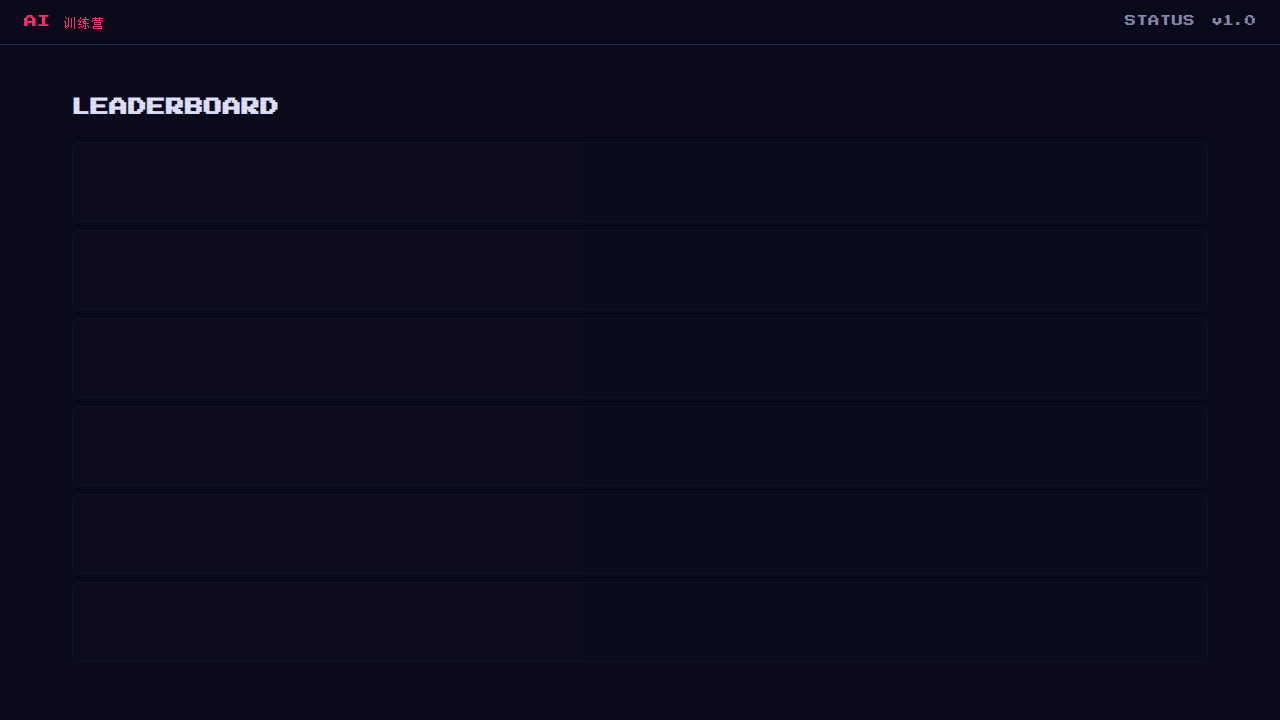
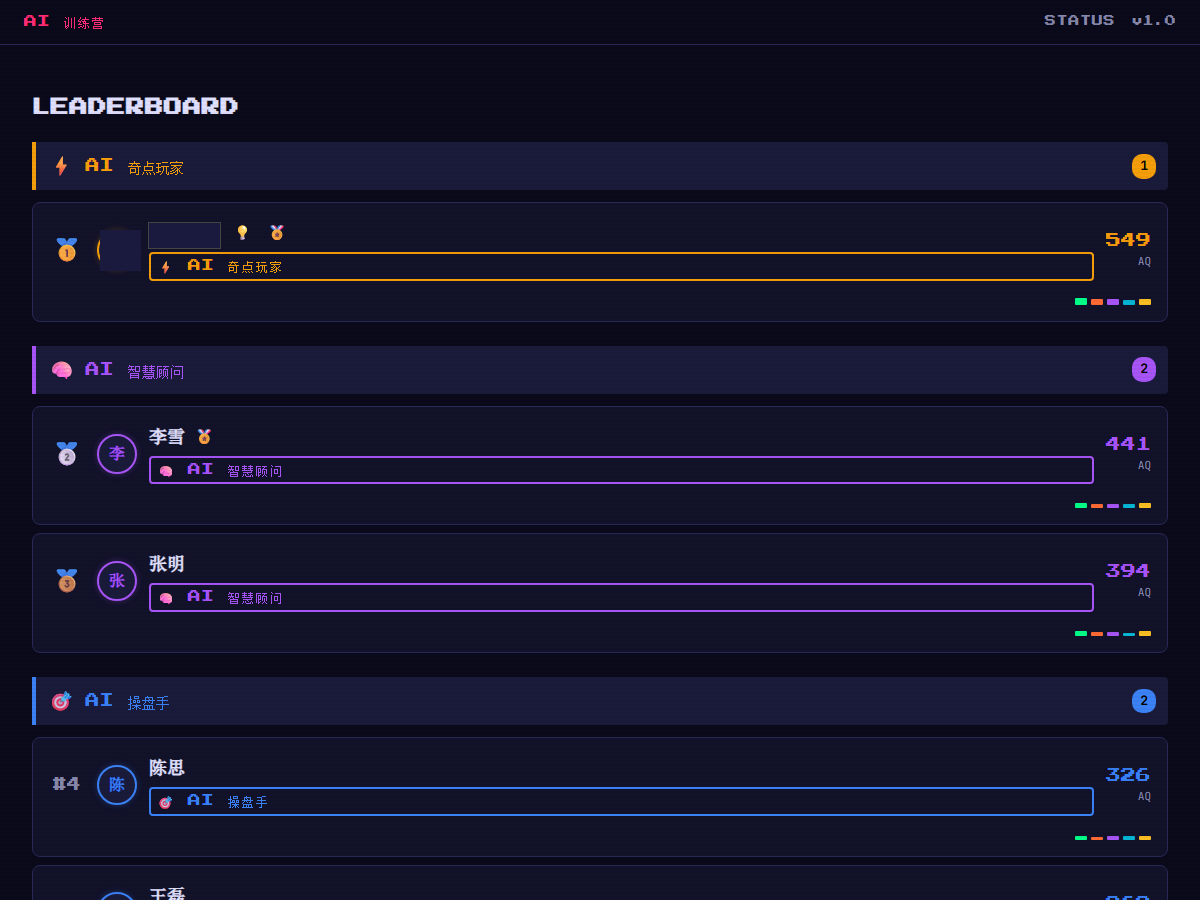
docs: README ASCII图替换为SVG/PNG图片
- 系统架构全景: ASCII → architecture.svg (霓虹风格流程图)
- 五维评分模型: ASCII → scoring-dimensions.svg (五角星图)
- Dashboard 展示: 添加排行榜+个人详情页截图 (第一名已打码)
- 等级体系: ASCII框 → 表格
- 项目亮点: ASCII框 → 表格

diff --git a/README.md b/README.md
@@ -38,35 +38,11 @@
 
 学员无需安装任何应用、无需学习任何操作——**在飞书群里自然交流，系统自动捕获一切，AI 实时评分，大屏即时呈现。**
 
-```
-┌──────────────────────────────────────────────────────────────┐
-│                    系 统 架 构 全 景                          │
-├──────────────────────────────────────────────────────────────┤
-│                                                              │
-│   ┌─────────────┐     ┌──────────────────┐                   │
-│   │  飞书群聊     │────→│  飞书机器人网关   │                   │
-│   │             │     │  (WebSocket)     │                   │
-│   │ · 文字消息   │     └────────┬─────────┘                   │
-│   │ · 图片/截图  │              │                             │
-│   │ · 文件/视频  │              ▼                             │
-│   │ · 表情回复   │     ┌──────────────────┐                   │
-│   │ · 互动卡片   │     │  消息处理引擎     │                   │
-│   └─────────────┘     │                  │                   │
-│                       │ ┌──────────────┐ │                   │
-│   ┌─────────────┐     │ │ 规则引擎      │ │    ┌───────────┐ │
-│   │  飞书多维表格 │←───→│ │ · 关键词匹配  │ │───→│  SQLite   │ │
-│   │  (题库管理)  │     │ │ · 去重/限频   │ │    │  数据库    │ │
-│   └─────────────┘     │ └──────────────┘ │    └─────┬─────┘ │
-│                       │ ┌──────────────┐ │          │       │
-│   ┌─────────────┐     │ │ AI 分类引擎   │ │          │       │
-│   │  管理员指令   │────→│ │ · GLM-4V     │ │          ▼       │
-│   │  群聊关键词   │     │ │ · 多模态识别  │ │   ┌───────────┐ │
-│   └─────────────┘     │ └──────────────┘ │   │ 赛博朋克    │ │
-│                       └──────────────────┘   │ 实时大屏    │ │
-│                                              │ Dashboard  │ │
-│                                              └───────────┘ │
-└──────────────────────────────────────────────────────────────┘
-```
+<div align="center">
+
+![系统架构全景](docs/images/architecture.svg)
+
+</div>
 
 ---
 
@@ -88,13 +64,11 @@
 
 ### 2. 五维评分模型：15 项精细指标
 
-```
-                    ★ Knowledge (知识力) ★
-                   ╱                      ╲
-      ★ Social (社交力) ★            ★ Hands-on (实操力) ★
-                   ╲                      ╱
-        ★ Growth (成长力) ★ ———— ★ Creativity (创新力) ★
-```
+<div align="center">
+
+![五维评分模型](docs/images/scoring-dimensions.svg)
+
+</div>
 
 | 维度 | 代号 | 评分项 | 说明 |
 |:---:|:---:|:---|:---|
@@ -115,38 +89,31 @@
 
 ### 4. 赛博朋克实时大屏
 
-<div align="center">
-
-![战绩天梯榜](docs/images/dashboard-leaderboard.png)
-
-</div>
-
-纯手写 CSS 赛博朋克主题，适配飞书群 Tab 页签直接嵌入：
-
-- **实时排行榜** —— 按段位分组展示，分数变化自带动效
-- **个人详情页** —— 五维 AQ 雷达图 + 维度得分分解 + 成长时间线
-- **段位晋升动画** —— 升级瞬间全屏播放赛博朋克风格晋升特效
-- **勋章墙** —— 根据行为自动授予成就徽章，可视化成长足迹
+纯手写 CSS 赛博朋克主题，适配飞书群 Tab 页签直接嵌入。
 
 **视觉风格：** 霓虹辉光 / 深色背景 / 数据粒子流 / 科幻 HUD 界面
 
+<div align="center">
+
+**实时排行榜 —— 按段位分组，名次变动一目了然**
+
+![排行榜](docs/images/dashboard-leaderboard.png)
+
+**个人详情页 —— 勋章墙 + 雷达图 + 五维分析 + 成长时间线**
+
+![个人详情](docs/images/dashboard-member-detail.png)
+
+</div>
+
 ### 5. 五级成长体系
 
-```
-  Level 1          Level 2          Level 3          Level 4          Level 5
-
-                                                                    ╔═══════╗
-                                                   ╔═══════╗       ║  ⚡   ║
-                                  ╔═══════╗       ║  🧠   ║       ║ 奇点  ║
-                 ╔═══════╗       ║  🎯   ║       ║ 智慧  ║       ║ 玩家  ║
-╔═══════╗       ║  🔬   ║       ║ 操盘  ║       ║ 顾问  ║       ║       ║
-║  🌱   ║       ║ 研究  ║       ║  手   ║       ║       ║       ║ 300+  ║
-║ 潜力  ║       ║  员   ║       ║       ║       ║ 200+  ║       ╚═══════╝
-║  股   ║       ║       ║       ║ 120+  ║       ╚═══════╝
-║       ║       ║  50+  ║       ╚═══════╝
-║  0+   ║       ╚═══════╝
-╚═══════╝
-```
+| Level | 称号 | AQ 门槛 | 含义 |
+|:-----:|:----:|:------:|:-----|
+| 1 | 🌱 **AI 潜力股** | 0+ | 刚刚入营，一切皆有可能 |
+| 2 | 🔬 **AI 研究员** | 50+ | 开始深入思考，展现专业素养 |
+| 3 | 🎯 **AI 操盘手** | 120+ | 学以致用，成果显著 |
+| 4 | 🧠 **AI 智慧顾问** | 200+ | 影响他人，成为团队智囊 |
+| 5 | ⚡ **AI 奇点玩家** | 300+ | 全维度卓越，突破认知边界 |
 
 升级时系统自动在群里发送庆祝卡片，营造仪式感和竞争氛围。
 
@@ -177,27 +144,16 @@
 
 ## 项目亮点
 
-```
-┌─────────────────────────────────────────────────────────────┐
-│                                                             │
-│   🎯  零 摩 擦     学员无需学习任何工具，群聊即评估          │
-│                                                             │
-│   🤖  A I 驱 动    大模型多模态理解，超越关键词时代          │
-│                                                             │
-│   ⚡  实 时 反 馈    3 秒内评分上榜，即时正向激励             │
-│                                                             │
-│   🎮  游 戏 化     五级成长体系 + 勋章 + 排行榜              │
-│                                                             │
-│   📊  多 维 度     5 大维度 15 项指标，全面画像              │
-│                                                             │
-│   🔧  零 代 码     群聊指令 + 表格管理，培训师即管理员        │
-│                                                             │
-│   🛡  防 作 弊     限频 + 去重 + AI 质检，保障公平           │
-│                                                             │
-│   📦  轻 部 署     单机 SQLite + systemd，10 分钟上线         │
-│                                                             │
-└─────────────────────────────────────────────────────────────┘
-```
+| | 亮点 | 说明 |
+|:--:|:----:|:-----|
+| 🎯 | **零摩擦** | 学员无需学习任何工具，群聊即评估 |
+| 🤖 | **AI 驱动** | 大模型多模态理解，超越关键词时代 |
+| ⚡ | **实时反馈** | 3 秒内评分上榜，即时正向激励 |
+| 🎮 | **游戏化** | 五级成长体系 + 勋章 + 排行榜 |
+| 📊 | **多维度** | 5 大维度 15 项指标，全面画像 |
+| 🔧 | **零代码** | 群聊指令 + 表格管理，培训师即管理员 |
+| 🛡 | **防作弊** | 限频 + 去重 + AI 质检，保障公平 |
+| 📦 | **轻部署** | 单机 SQLite + systemd，10 分钟上线 |
 
 ---
 
